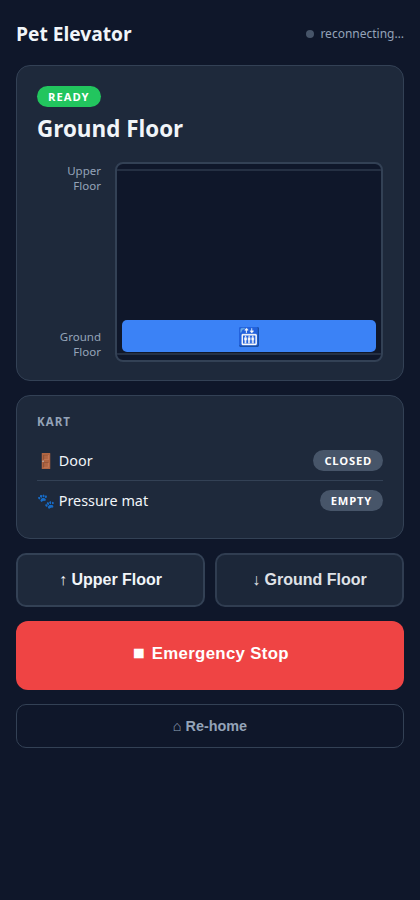
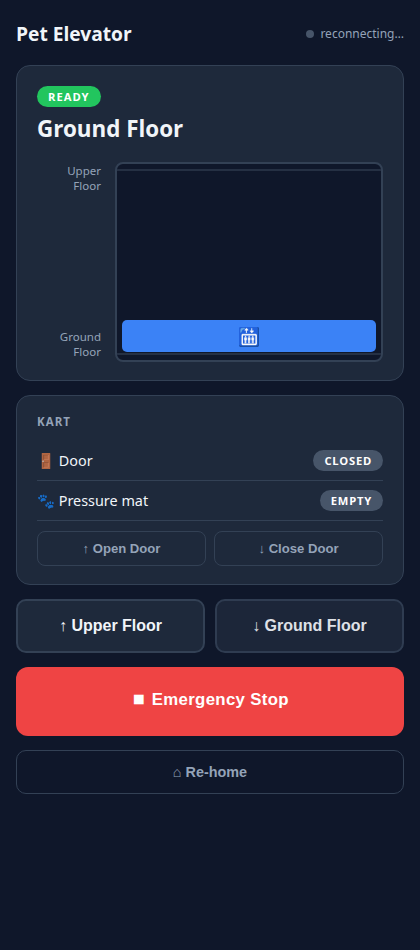
Add manual door open/close command to UI and kart node
New MQTT topic elevator/kart/door/command carries {"action": "open"|"close"}.

- controller/config.py: MQTT_TOPIC_KART_DOOR_CMD constant
- controller/web_ui.py: POST /api/door endpoint publishes to door command topic
- kart_node/config.py: MQTT_TOPIC_DOOR_CMD constant
- kart_node/main.py: subscribes to door command topic; logs action and stubs
  GPIO actuator call (TODO: wire to door motor/servo when hardware is fitted)
- index.html: Open Door / Close Door buttons in the Kart card calling /api/door

diff --git a/controller/templates/index.html b/controller/templates/index.html
@@ -285,6 +285,21 @@ button:disabled {
 .interlock-pill.ok   { background: var(--green); }
 .interlock-pill.warn { background: var(--red); animation: pulse-red 1s ease-in-out infinite; }
 .interlock-pill.info { background: var(--blue); }
+
+.door-btns {
+  display: flex;
+  gap: 8px;
+  margin-top: 10px;
+}
+.btn-door {
+  flex: 1;
+  background: transparent;
+  border: 1px solid var(--border);
+  color: var(--muted);
+  font-size: 0.82rem;
+  padding: 9px;
+  border-radius: 8px;
+}
 </style>
 </head>
 <body>
@@ -325,6 +340,10 @@ button:disabled {
   <div class="interlock-row">
     <span class="interlock-label">🐾 Pressure mat</span>
     <span class="interlock-pill" id="pressure-pill">—</span>
+  </div>
+  <div class="door-btns">
+    <button class="btn-door" onclick="doorCmd('open')">↑ Open Door</button>
+    <button class="btn-door" onclick="doorCmd('close')">↓ Close Door</button>
   </div>
 </div>
 
@@ -414,6 +433,14 @@ function updateUI(s) {
 }
 
 function goFloor(floor) { cmd({ action: 'go', floor }); }
+
+function doorCmd(action) {
+  fetch('/api/door', {
+    method:  'POST',
+    headers: { 'Content-Type': 'application/json' },
+    body:    JSON.stringify({ action }),
+  }).catch(() => {});
+}
 
 function cmd(payload) {
   fetch('/api/command', {

diff --git a/kart_node/main.py b/kart_node/main.py
@@ -106,13 +106,32 @@ class KartNode:
     @staticmethod
     def _init_mqtt() -> mqtt.Client:
         client = mqtt.Client(client_id="elevator-kart", clean_session=True)
-        client.on_connect    = lambda c, u, f, rc: logger.info(
-            "MQTT connected to %s (rc=%d)", config.MQTT_BROKER, rc
+        client.on_connect    = lambda c, u, f, rc: (
+            logger.info("MQTT connected to %s (rc=%d)", config.MQTT_BROKER, rc),
+            client.subscribe(config.MQTT_TOPIC_DOOR_CMD, qos=1),
         )
         client.on_disconnect = lambda c, u, rc: logger.warning(
             "MQTT disconnected (rc=%d)", rc
         )
+        client.on_message = KartNode._on_mqtt_message
         return client
+
+    @staticmethod
+    def _on_mqtt_message(client, userdata, msg) -> None:
+        try:
+            payload = json.loads(msg.payload)
+        except (json.JSONDecodeError, UnicodeDecodeError):
+            logger.warning("Unparseable message on %s: %r", msg.topic, msg.payload)
+            return
+
+        if msg.topic == config.MQTT_TOPIC_DOOR_CMD:
+            action = payload.get("action")
+            if action not in ("open", "close"):
+                logger.warning("Unknown door command action: %r", action)
+                return
+            logger.info("Door command received: %s", action)
+            # TODO: actuate door motor/servo on GPIO when hardware is fitted
+            # e.g. GPIO.output(config.DOOR_ACTUATOR_PIN, GPIO.HIGH if action == "open" else GPIO.LOW)
 
     def _publish_door(self, status: str) -> None:
         payload = json.dumps({"status": status})

diff --git a/controller/web_ui.py b/controller/web_ui.py
@@ -114,6 +114,16 @@ class WebUI:
             )
             return jsonify({"ok": True})
 
+        @app.route("/api/door", methods=["POST"])
+        def api_door():
+            data = request.get_json(force=True, silent=True)
+            if not data or data.get("action") not in ("open", "close"):
+                return jsonify({"ok": False, "error": "action must be 'open' or 'close'"}), 400
+            self._mqtt.publish(
+                config.MQTT_TOPIC_KART_DOOR_CMD, json.dumps(data), qos=1
+            )
+            return jsonify({"ok": True})
+
         @app.route("/api/events")
         def api_events():
             def stream():

diff --git a/kart_node/config.py b/kart_node/config.py
@@ -12,5 +12,6 @@ PRESSURE_PIN = 27
 # ── MQTT ──────────────────────────────────────────────────────────────────
 MQTT_BROKER           = os.environ.get("ELEVATOR_BROKER", "pet-elevator.local")
 MQTT_PORT             = 1883
-MQTT_TOPIC_DOOR       = "elevator/kart/door"      # retained
-MQTT_TOPIC_PRESSURE   = "elevator/kart/pressure"  # retained
+MQTT_TOPIC_DOOR       = "elevator/kart/door"           # retained
+MQTT_TOPIC_PRESSURE   = "elevator/kart/pressure"       # retained
+MQTT_TOPIC_DOOR_CMD   = "elevator/kart/door/command"   # subscribe: {"action": "open"|"close"}

diff --git a/controller/config.py b/controller/config.py
@@ -40,6 +40,7 @@ MQTT_TOPIC_STATUS        = "elevator/status"           # publish:  state/positio
 MQTT_TOPIC_DETECTION     = "elevator/camera/+/detection"  # from landing Pi Zero 2 W nodes
 MQTT_TOPIC_KART_DOOR     = "elevator/kart/door"        # from kart sensor node (retained)
 MQTT_TOPIC_KART_PRESSURE = "elevator/kart/pressure"    # from kart sensor node (retained)
+MQTT_TOPIC_KART_DOOR_CMD = "elevator/kart/door/command"  # to kart: {"action": "open"|"close"}
 
 # Wiring note:
 # Common-cathode wiring — DM542T PUL-, DIR-, ENA- tied to GND; Pi GPIO drives the + sides.